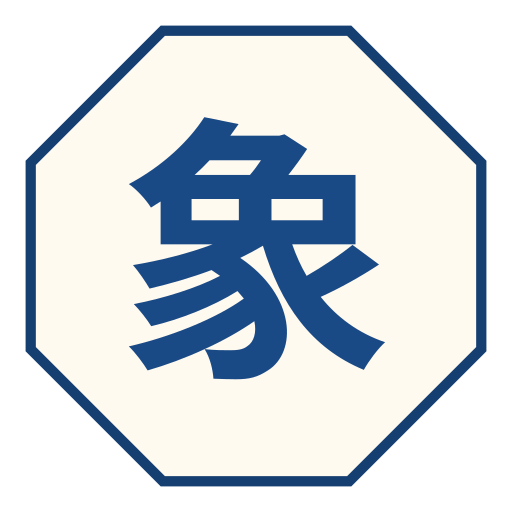
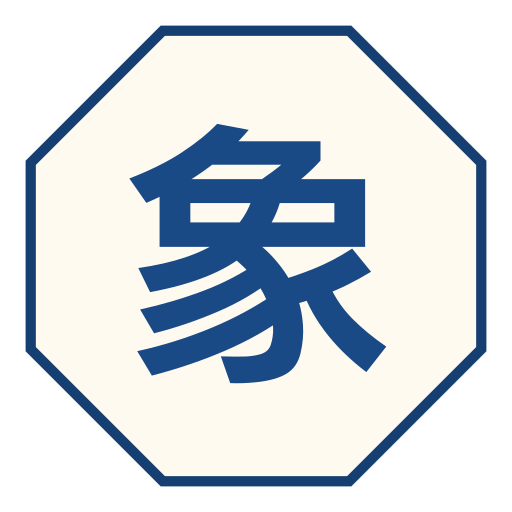
Janggi JavaScript implementation

diff --git a/webapp/src/main/resources/public/js/widgets/board-gui.js b/webapp/src/main/resources/public/js/widgets/board-gui.js
@@ -1484,6 +1484,18 @@ class BoardGui {
         } else if (isWhitePiece(pieceChar)) {
             img.classList.add('piece-image-red');
         }
+        if (this.#options.variant === Variant.JANGGI) {
+            img.classList.add('piece-image-janggi');
+            switch (pieceChar.toLowerCase()) {
+                case 'k':
+                    img.classList.add('piece-image-janggi-general');
+                    break;
+                case 'a':
+                case 'p':
+                    img.classList.add('piece-image-janggi-small');
+                    break;
+            }
+        }
         img.setAttribute('src', this.getPieceImageSource(pieceChar));
         img.addEventListener('click', () => this.#clickedOnPiece(position));
         img.addEventListener('dragstart', (e) => this.#dragStart(e, position));

diff --git a/webapp/src/main/resources/public/css/board.css b/webapp/src/main/resources/public/css/board.css
@@ -114,6 +114,23 @@ a.board-outer-container-link-mask {
     z-index: 100;
 }
 
+.piece-holder .piece-image-janggi {
+    border-radius: 0;
+    box-shadow: none;
+}
+
+.piece-holder .piece-image-janggi-general {
+    width: 115%;
+    height: 115%;
+    margin: -7.5%;
+}
+
+.piece-holder .piece-image-janggi-small {
+    width: 70%;
+    height: 70%;
+    margin: 15%;
+}
+
 .board-container.colorblind-friendly-black-pieces .piece-image-black {
     filter: invert(1);
 }
